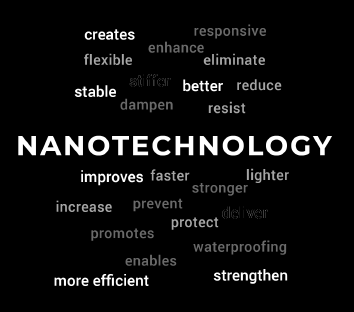
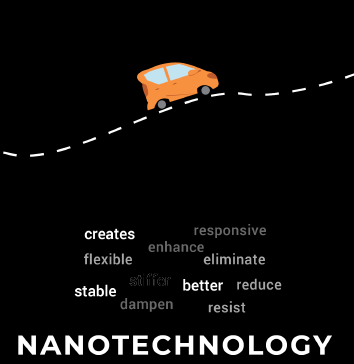
updated with creative writing
fixed nano image to be more compelling. Is it the most compelling? general layout edits. added new buttons

diff --git a/index.html b/index.html
@@ -85,25 +85,26 @@
       <div class="menu">
          <a href="index.html">     <button> Home</button></a>
          <a href="about.html"><button> About</button></a>
+         <a href="https://jballas.github.io/441_work/HW-4/index.html"><button>Creative Writing</button></a>
+
 
        </div>
+
     <div class="section row">
-
-
       <div class="column"  id="designs" >
+
         <h3>Print</h3>
          <a href="./images/print_aboards.png"><img src="./images/galleria_a.png" alt="outdoor signage"></a>
          <a href="./images/galleria_b.png"><img src="./images/galleria_b.png" alt="outdoor signage"></a>
-         <a href="./images/print2.jpg"><img src="./images/print_handbook.png" alt="handbook"></a>
          <p><a href="https://nexttechnetwork.org/nexttech-handbook/">
-         The updated handbook is available on-line for students to download.</a></p>
+         The updated handbook is available on-line for students to download.</a></p><a href="./images/print2.jpg"><img src="./images/print_handbook.png" alt="handbook"></a>
+
 
         </div>
        <div class="column" >
         <a href="./images/print.jpg"><img src="./images/print_nano.png" alt="infographic nanotechnology"></a>
          <a href="./images/postcard2.png"><img src="./images/postcard2.png" alt="innovation postcard"></a>
         <a href="./images/print-ggh.jpg"><img src="./images/print-ggh.jpg" alt="spec project Housing Ad"></a>
-        <p>Spec project with copy provided and request for a superhero home. I did the design and illustration.  </p>
 
       </div>
     </div>
@@ -125,7 +126,7 @@
     </div>
 
     <div class="section feature">
-      <h1>"Find that spark of inspiration"</h1>
+      <h2>"A spark of inspiration"</h2>
     </div>
 
     <div class="section row">
@@ -169,11 +170,12 @@
         <img src="./images/adventure-text.gif" alt="Adventure in Motion">
         <img src="./images/promo.gif" alt="Fairy Doctor Falls in Love promotion">
         <a href="./images/code.png"><img src="./images/code.png" alt="code flower"></a>
+        <p><a href="https://jballas.github.io/441_work/HW-4/index.html">Adventure Text Game: <button>Glitch and Multiverse </button></a>
+
+        </div>
 
       </div>
 
-
-    </div>
 
     <footer>
           contact |  julia.m.ballas [a] gmail.com

diff --git a/about.html b/about.html
@@ -83,6 +83,8 @@
         <ul>
           <ul>
             <li> Storytelling</li>
+            <li> Creative Writing</li>
+            <li>Favorite genres: fantasy, romance and sci-fi</li>
             <li> Typing Speed: 60-70 wpm.</li>
               <li> PC or Mac. I'm faster on PC.</li>
 
